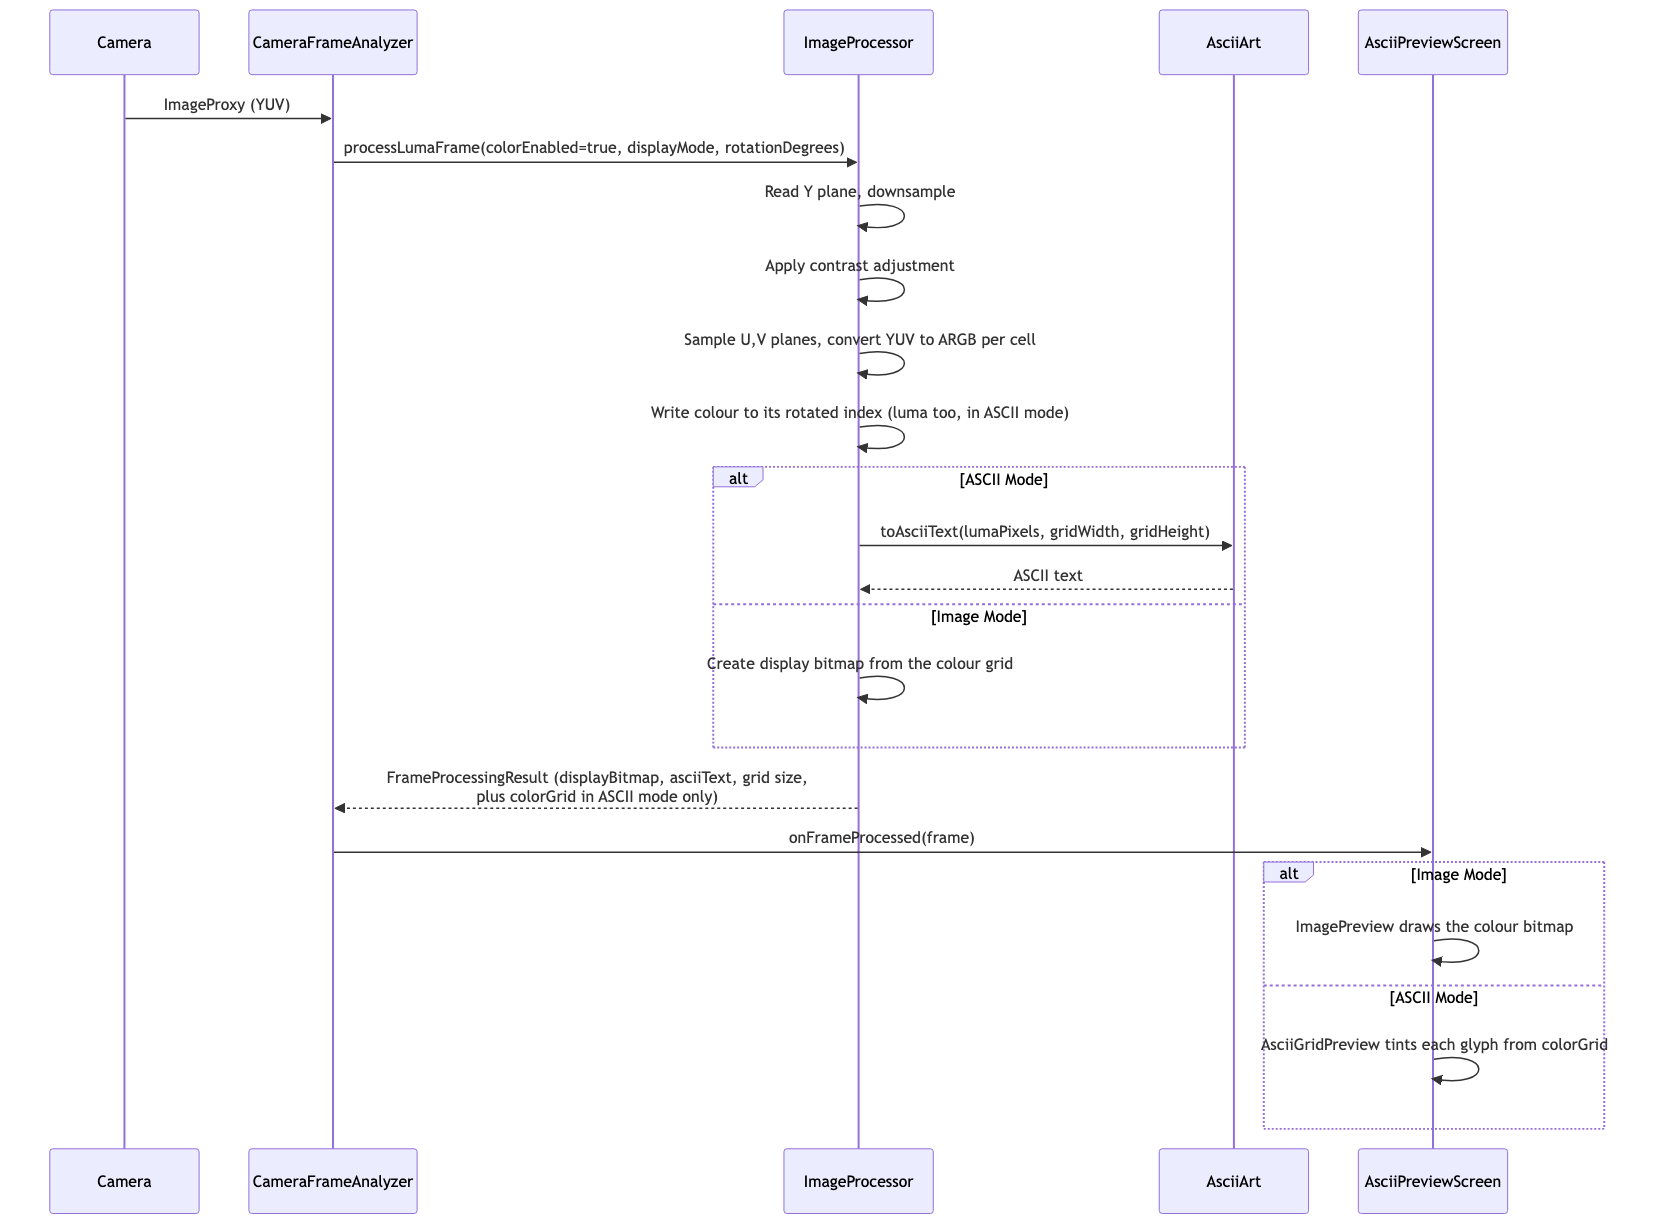
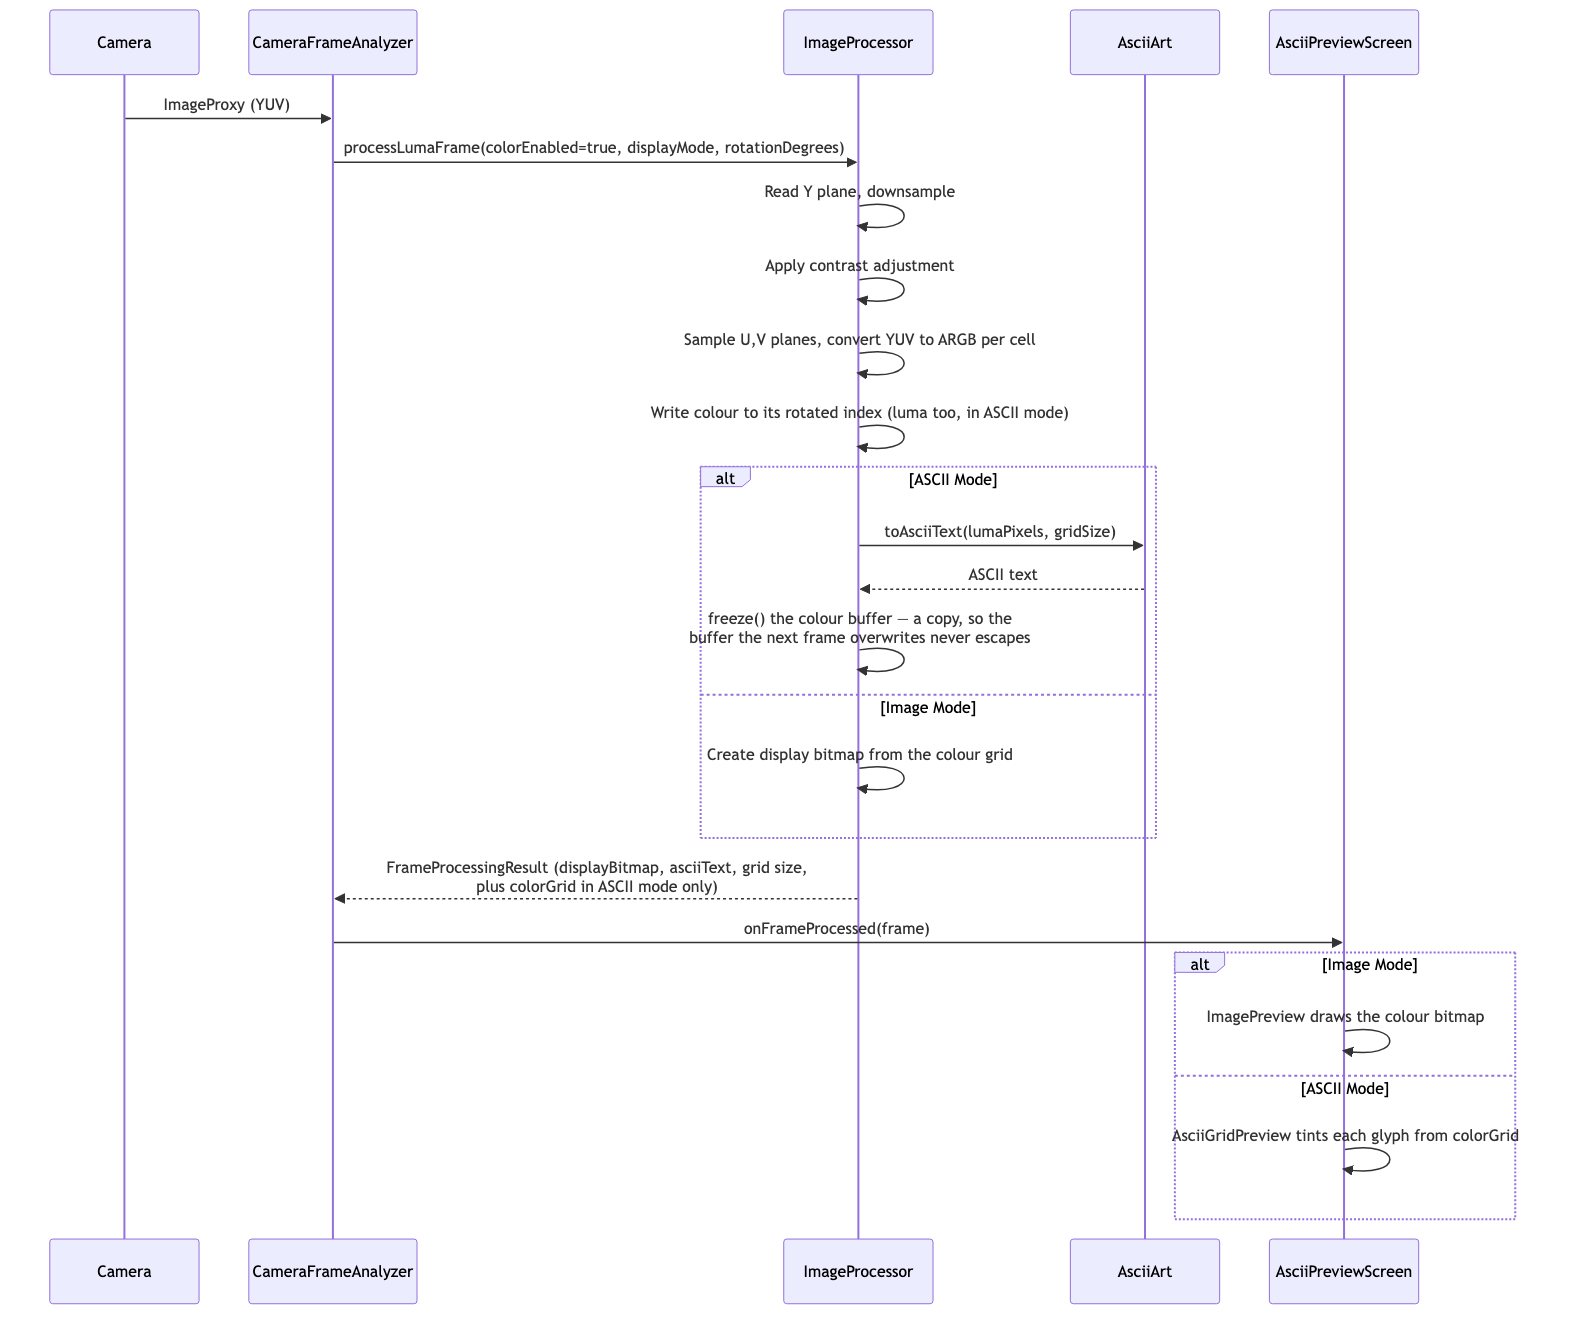
Document PixelGrid, PixelBuffer and GridSize
Checked the README and diagrams against the merged code after #33. Three
kinds of drift, all from that PR:

- FrameProcessingResult still showed asciiColors: IntArray? and a loose
  gridWidth/gridHeight pair.
- AsciiArt.toAsciiText was documented with its old (pixels, width, height)
  signature in the class diagram and all three sequence diagrams.
- The three new types were absent entirely.

The class diagram now carries GridSize, PixelGrid and PixelBuffer with the
freeze() edge between the last two, since that copy is the whole point — it
is what keeps a reused buffer from reaching Compose state. The colour
sequences gained the freeze step for the same reason.

The README's ImageProcessor and FrameProcessingResult rows are corrected and
the three types have rows of their own.

PNGs regenerated for all four diagrams.

diff --git a/README.md b/README.md
@@ -106,7 +106,7 @@ sequenceDiagram
     IP->>IP: Apply contrast adjustment
     IP->>IP: Write each cell to its rotated index
     alt ASCII Mode
-        IP->>AA: toAsciiText(lumaPixels, gridWidth, gridHeight)
+        IP->>AA: toAsciiText(lumaPixels, gridSize)
         AA-->>IP: ASCII text
     else Image Mode
         IP->>IP: Create grayscale ARGB display bitmap
@@ -132,8 +132,9 @@ sequenceDiagram
     IP->>IP: Sample U,V planes, convert YUV to ARGB per cell
     IP->>IP: Write colour to its rotated index (luma too, in ASCII mode)
     alt ASCII Mode
-        IP->>AA: toAsciiText(lumaPixels, gridWidth, gridHeight)
+        IP->>AA: toAsciiText(lumaPixels, gridSize)
         AA-->>IP: ASCII text
+        IP->>IP: freeze() the colour buffer — a copy, so the<br/>buffer the next frame overwrites never escapes
     else Image Mode
         IP->>IP: Create display bitmap from the colour grid
     end
@@ -163,8 +164,9 @@ sequenceDiagram
         TV-->>EFL: Bitmap (reused from pool)
         EFL->>IP: processBitmap(bitmap, contrastFactor, colorEnabled, displayMode)
         alt ASCII Mode
-            IP->>AA: toAsciiText(grayscalePixels, width, height)
+            IP->>AA: toAsciiText(grayscalePixels, gridSize)
             AA-->>IP: ASCII text
+            IP->>IP: freeze() the colour buffer (a copy)
         else Image Mode
             IP->>IP: Create display bitmap (colour grid or grayscale)
         end
@@ -262,13 +264,32 @@ classDiagram
     class FrameProcessingResult {
         displayBitmap: Bitmap?
         asciiText: String
-        asciiColors: IntArray?
-        gridWidth: Int
-        gridHeight: Int
+        asciiColors: PixelGrid?
+        gridSize: GridSize
+    }
+
+    class GridSize {
+        width: Int
+        height: Int
+        cellCount: Int
+    }
+
+    class PixelGrid {
+        <<immutable>>
+        size: GridSize
+        +get(x, y)
+        +getOrNull(x, y)
+    }
+
+    class PixelBuffer {
+        size: GridSize
+        +prepare(size)
+        +freeze() PixelGrid
+        +pixelsForPlatformApi: IntArray
     }
 
     class AsciiArt {
-        +toAsciiText(grayscalePixels, width, height)$
+        +toAsciiText(grayscalePixels, size)$
         -glyphForIntensity: CharArray
         -buildSortedCharset()$
     }
@@ -291,6 +312,12 @@ classDiagram
     ImageProcessor --> RotationMap
     ImageProcessor --> FrameProcessingResult
     ImageProcessor --> AsciiArt
+    ImageProcessor --> PixelBuffer
+    PixelBuffer ..> PixelGrid : freeze() copies
+    PixelBuffer --> GridSize
+    PixelGrid --> GridSize
+    FrameProcessingResult --> PixelGrid
+    FrameProcessingResult --> GridSize
 ```
 
 | Class | Description |
@@ -299,9 +326,12 @@ classDiagram
 | `AsciiPreviewScreen` | Root composable screen. Owns all shared UI state — scale factor, contrast, colour toggle, display mode and selected tab — and renders the control panel plus the tab selector. |
 | `CameraAnalysisPipeline` | Private composable that wires up CameraX `ImageAnalysis`, binds it to the `LifecycleOwner`, and forwards each raw camera frame to a `CameraFrameAnalyzer` instance. |
 | `CameraFrameAnalyzer` | Implements `ImageAnalysis.Analyzer`. Receives raw YUV `ImageProxy` frames from CameraX, passes the sensor rotation and the current display mode through to `ImageProcessor` (which applies the rotation while downsampling), and posts the finished `FrameProcessingResult` to the UI thread. |
-| `ImageProcessor` | Singleton. Downsamples luma data from a YUV `ImageProxy` or an existing `Bitmap`, applies contrast adjustment, and produces exactly what the current display mode draws — see `FrameProcessingResult`. Applies rotation inside the downsample loop via `RotationMap`. Keeps pre-allocated `IntArray` buffers for the data it consumes internally; arrays that escape to Compose state are allocated per frame. |
+| `ImageProcessor` | Singleton. Downsamples luma data from a YUV `ImageProxy` or an existing `Bitmap`, applies contrast adjustment, and produces exactly what the current display mode draws — see `FrameProcessingResult`. Applies rotation inside the downsample loop via `RotationMap`. Writes into four `PixelBuffer`s it owns, two per pipeline; anything the UI keeps leaves through `freeze()`. |
 | `RotationMap` | A right-angle rotation expressed as an affine index map — `dstIndex = base + stepX * x + stepY * y` — so the downsample loop can write each cell directly to its rotated position. Pure arithmetic with no Android dependency, which is what makes it unit-testable. |
-| `FrameProcessingResult` | Immutable data class that carries the output of a single `ImageProcessor` call: the de-res grid dimensions, the ASCII text for ASCII mode, an optional `IntArray` of per-cell ARGB colours, and the `Bitmap` Image mode draws — null in ASCII mode, which draws no image. Building only what the mode shows is what keeps a full-size bitmap from being allocated and filled on every frame regardless of whether anything reads it. |
+| `FrameProcessingResult` | Immutable data class that carries the output of a single `ImageProcessor` call: the `GridSize`, the ASCII text for ASCII mode, an optional `PixelGrid` of per-cell ARGB colours, and the `Bitmap` Image mode draws — null in ASCII mode, which draws no image. Building only what the mode shows is what keeps a full-size bitmap from being allocated and filled on every frame regardless of whether anything reads it. |
+| `GridSize` | The dimensions of a de-res grid, in cells. Carried separately from the pixels because it outlives them: with Colour off there is no colour grid, and the UI still has to lay out cells. |
+| `PixelGrid` | An immutable grid of ARGB pixels — the only pixel type that may cross to the main thread and be held in Compose state. Its array is private and its constructor internal, so the sole way to obtain one is `PixelBuffer.freeze()`, which copies. |
+| `PixelBuffer` | A reusable pixel buffer owned by `ImageProcessor` and overwritten by every frame. Grown, never shrunk, so it can be longer than the current grid. Passing one to a function that reads and returns is safe; anything that outlives the call must go through `freeze()` first. Splitting these two types apart is what makes the mistake behind item 4 — a reused buffer escaping to Compose state — a type error rather than a race. |
 | `AsciiArt` | Singleton. Converts a grid of grayscale pixels to a multi-line ASCII `String` by mapping each pixel's intensity to a character from a density-sorted printable ASCII set — brighter cells map to denser glyphs. The mapping is precomputed into a `CharArray(256)` on first use, so the per-pixel cost is one array read. |
 | `AsciiDisplayMode` | Enum with two values — `IMAGE` (render de-res bitmap cells) and `ASCII` (render character glyphs) — shared across both tabs. |
 | `ExoPlayerVideoFileTab` | Composable for the Video File tab. Creates and manages the `ExoPlayer` instance and its lifecycle. Provides a persistent control bar (Load, Restart, Play, Pause) visible in both modes. Delegates frame capture to `ExoPlayerFrameListener` and renders the output through `ImagePreview` or `AsciiGridPreview`. |
